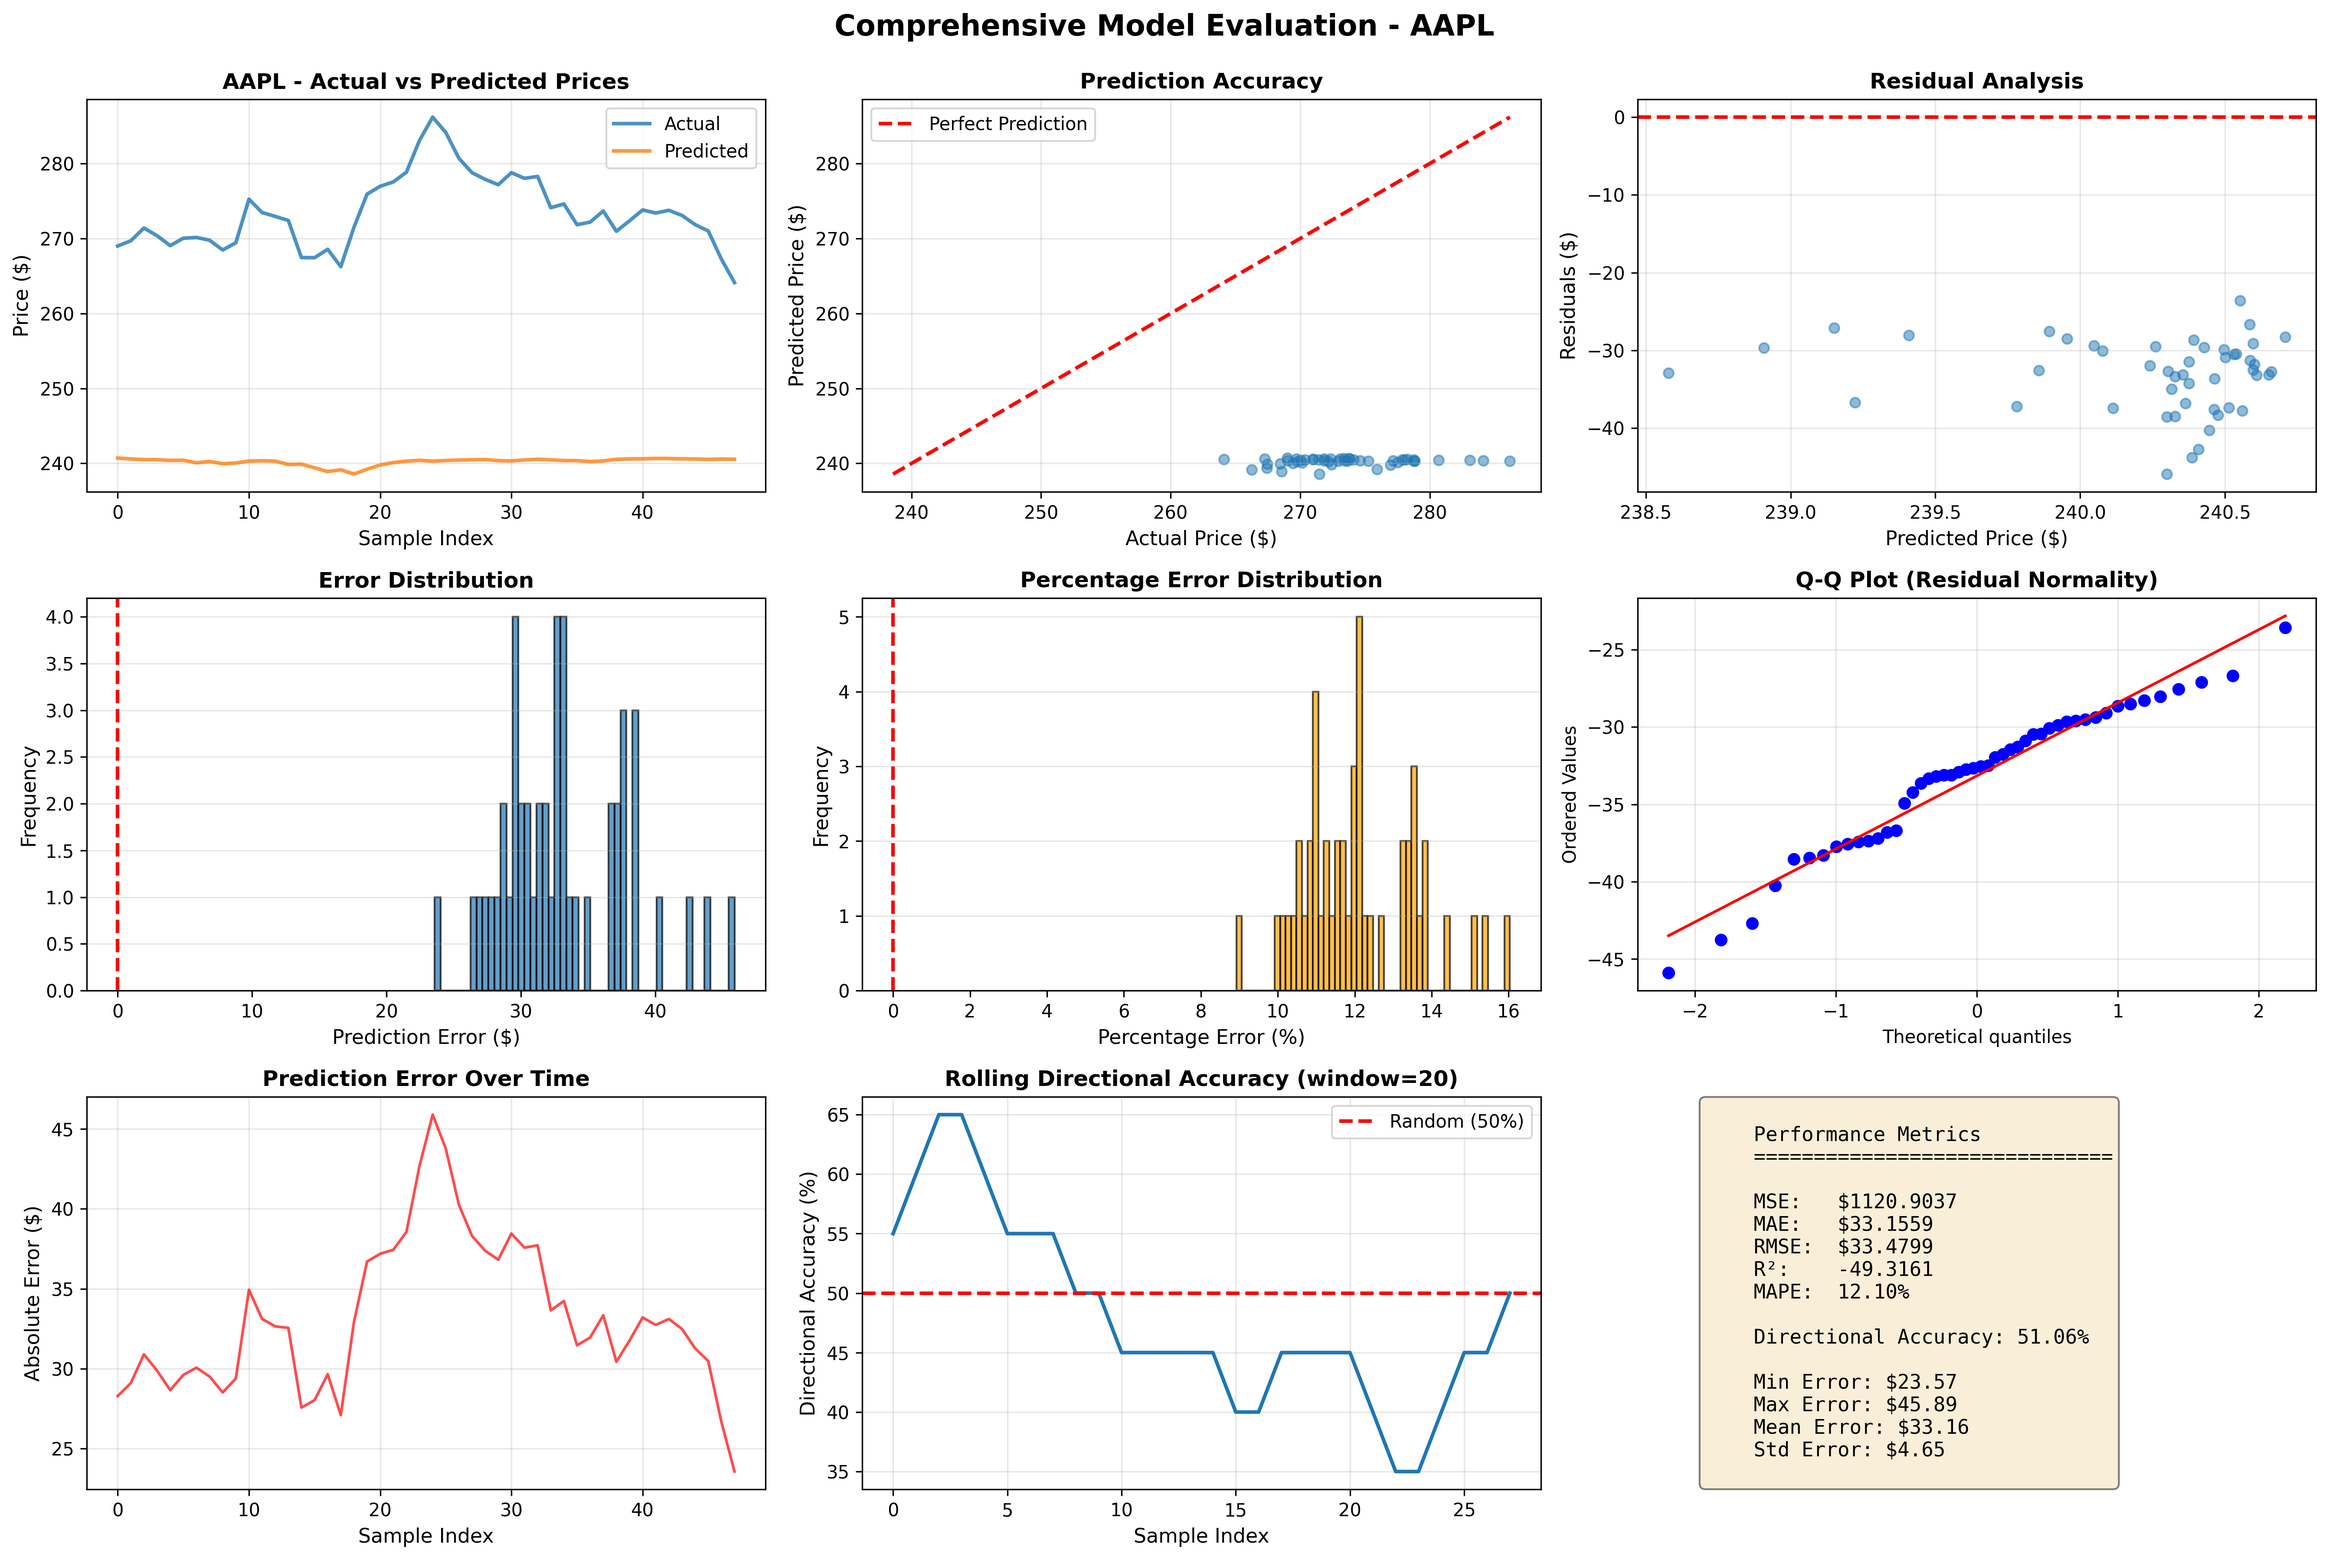
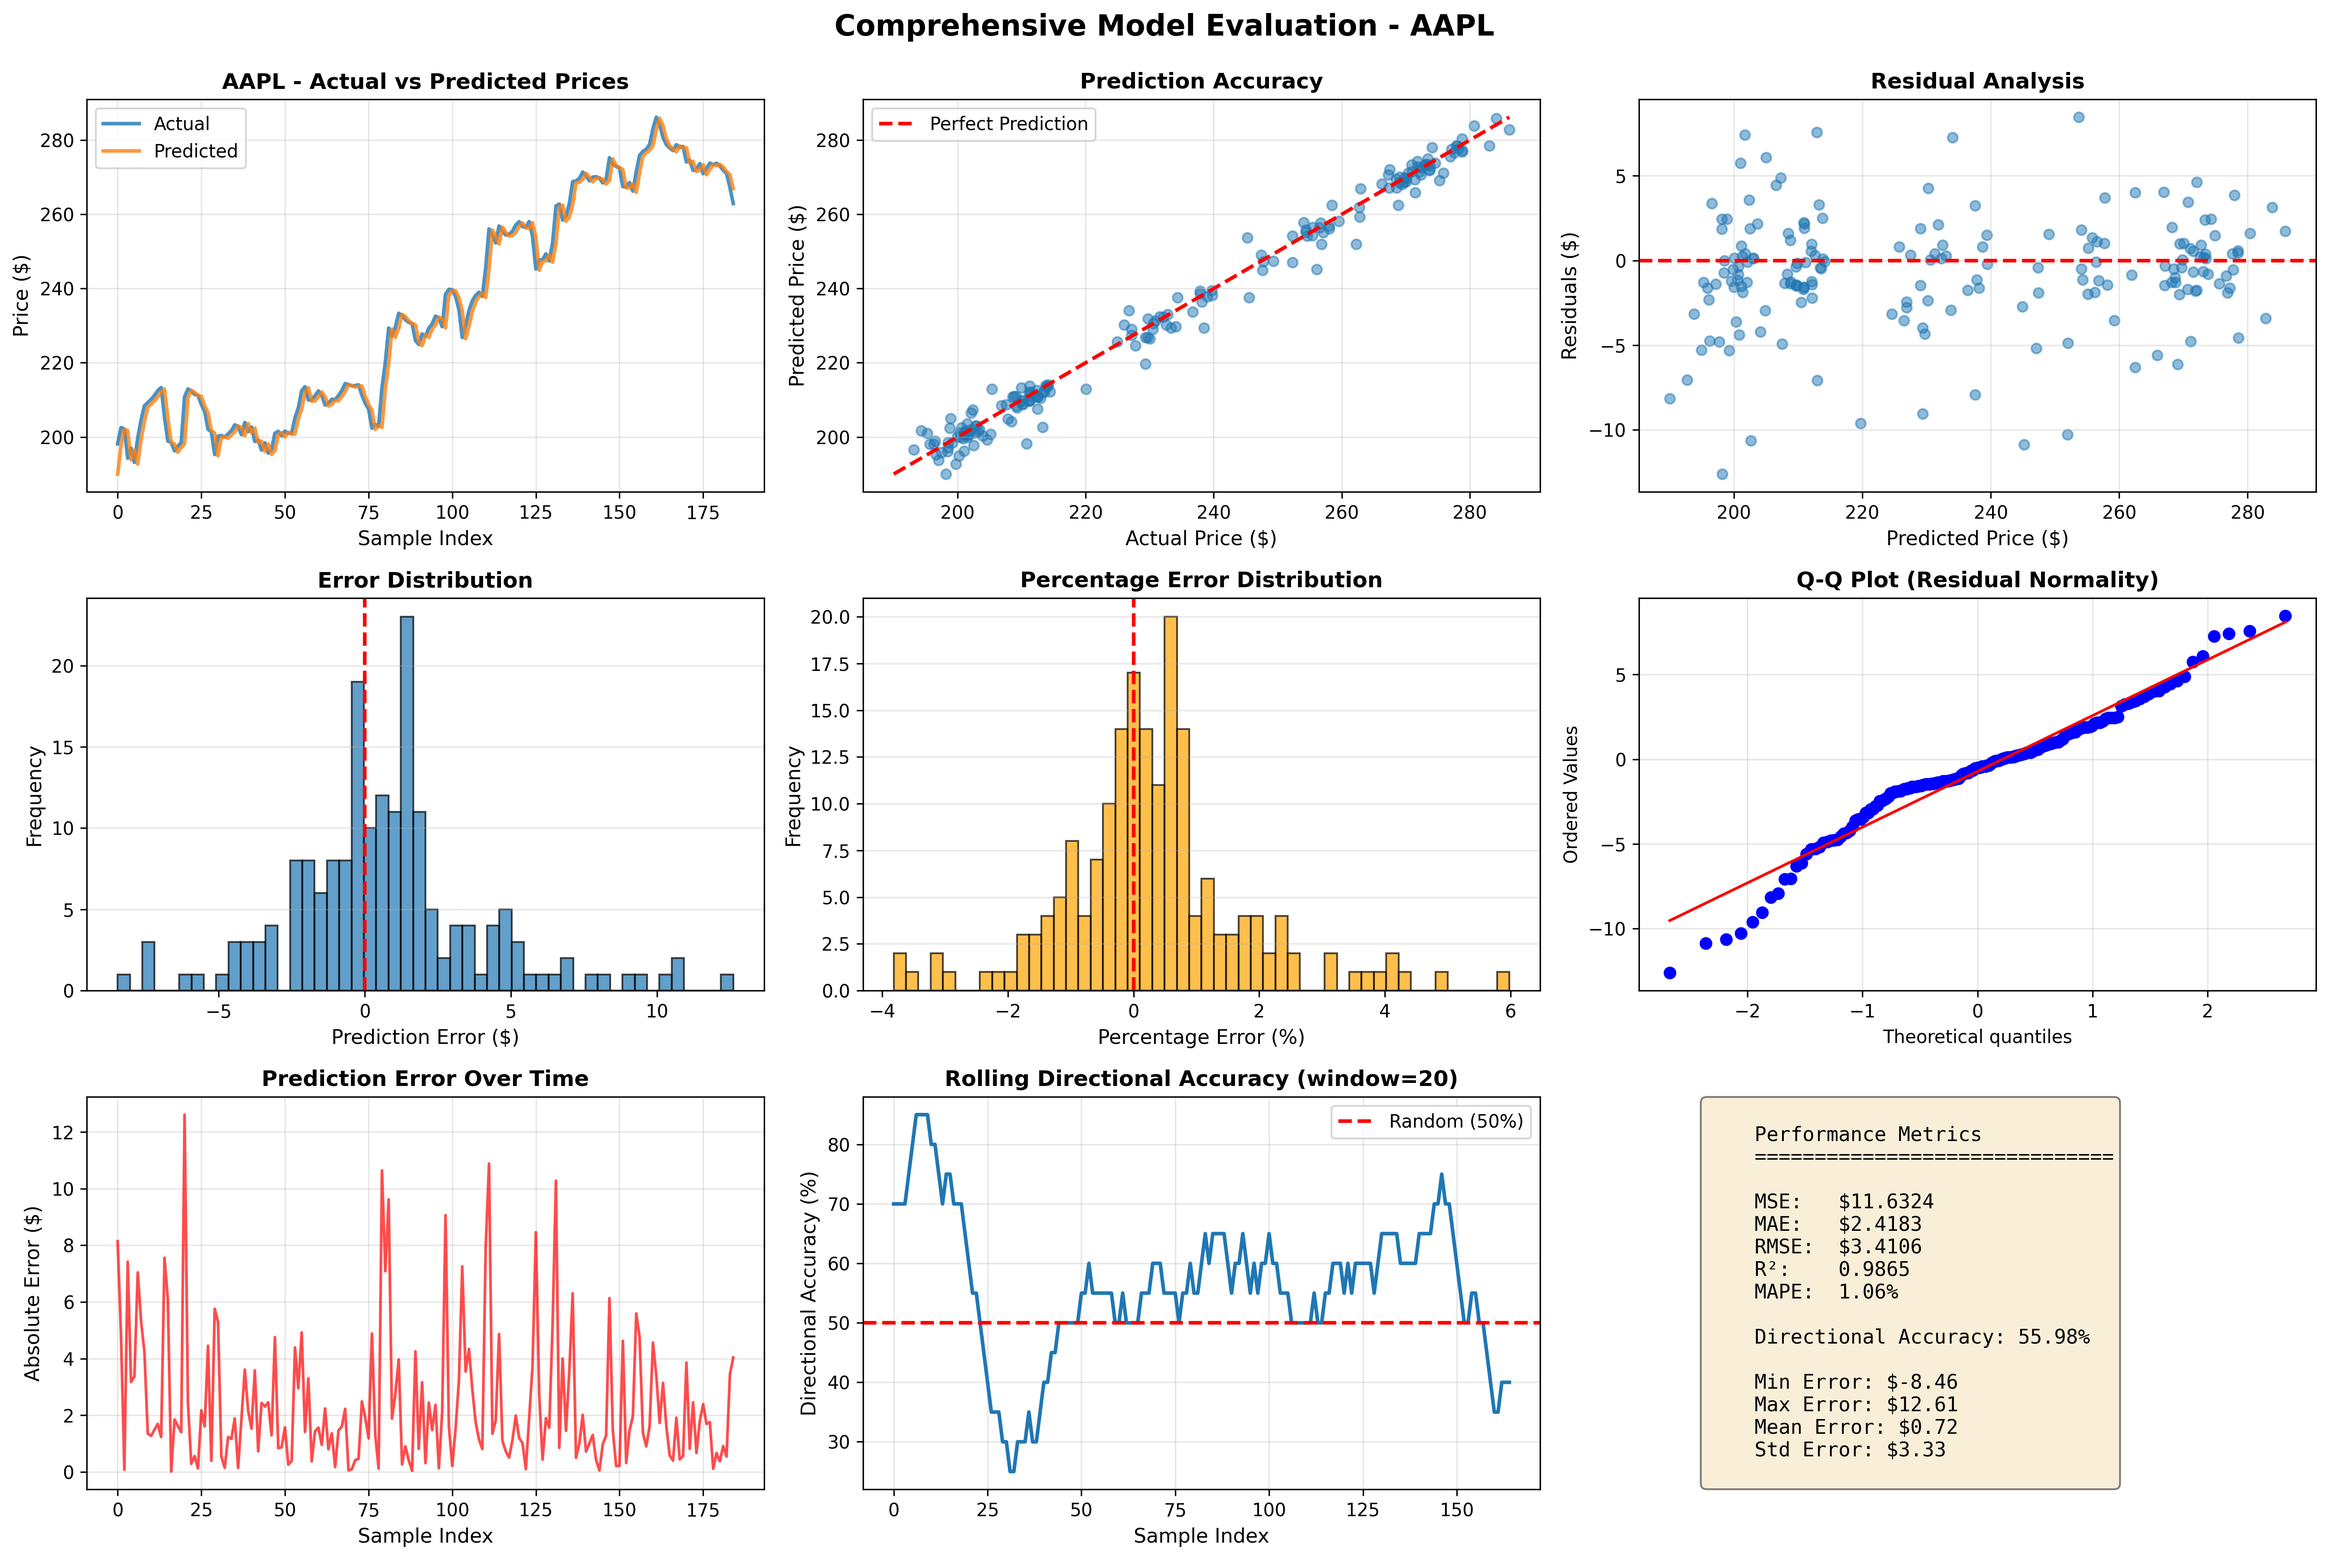
tried to beat the base line

diff --git a/scripts/evaluate_advanced_model.py b/scripts/evaluate_advanced_model.py
@@ -225,7 +225,7 @@ def evaluate_baseline_naive(y_true, current_close=None, **kwargs):
     }
 
 
-def plot_comprehensive_analysis(metrics, ticker, save_path=None):
+def plot_comprehensive_analysis(metrics, ticker, save_path=None, *, baseline_naive=None):
     """Create comprehensive visualization of model performance"""
     
     predictions = metrics['predictions']
@@ -321,23 +321,32 @@ def plot_comprehensive_analysis(metrics, ticker, save_path=None):
     # 9. Metrics summary
     ax9 = plt.subplot(3, 3, 9)
     ax9.axis('off')
-    metrics_text = f"""
-    Performance Metrics
-    {'='*30}
-    
-    MSE:   ${metrics['mse']:.4f}
-    MAE:   ${metrics['mae']:.4f}
-    RMSE:  ${metrics['rmse']:.4f}
-    R²:    {metrics['r2']:.4f}
-    MAPE:  {metrics['mape']:.2f}%
-    
-    Directional Accuracy: {metrics['directional_accuracy']:.2f}%
-    
-    Min Error: ${errors.min():.2f}
-    Max Error: ${errors.max():.2f}
-    Mean Error: ${errors.mean():.2f}
-    Std Error: ${errors.std():.2f}
-    """
+    base_lines = ""
+    if baseline_naive is not None:
+        base_lines = (
+            "\nBaseline (naive: next close = current close)\n"
+            f"RMSE:  ${baseline_naive['rmse']:.4f}\n"
+            f"MAE:   ${baseline_naive['mae']:.4f}\n"
+            f"MAPE:  {baseline_naive['mape']:.2f}%\n"
+            f"DirAcc:{baseline_naive['directional_accuracy']:.2f}%\n"
+        )
+
+    metrics_text = (
+        "Performance Metrics\n"
+        + "=" * 30
+        + "\n\nModel\n"
+        f"RMSE:  ${metrics['rmse']:.4f}\n"
+        f"MAE:   ${metrics['mae']:.4f}\n"
+        f"MAPE:  {metrics['mape']:.2f}%\n"
+        f"R²:    {metrics['r2']:.4f}\n"
+        f"DirAcc:{metrics['directional_accuracy']:.2f}%\n"
+        + base_lines
+        + "\nErrors (model, $)\n"
+        f"Min:   ${errors.min():.2f}\n"
+        f"Max:   ${errors.max():.2f}\n"
+        f"Mean:  ${errors.mean():.2f}\n"
+        f"Std:   ${errors.std():.2f}\n"
+    )
     ax9.text(0.1, 0.5, metrics_text, fontsize=11, family='monospace',
              verticalalignment='center', bbox=dict(boxstyle='round', facecolor='wheat', alpha=0.5))
     
@@ -460,16 +469,31 @@ def main():
     
     # Plot results
     print("Generating visualizations...")
-    plot_comprehensive_analysis(metrics, args.ticker, args.output)
+    plot_comprehensive_analysis(metrics, args.ticker, args.output, baseline_naive=baseline)
     
     # Save metrics to JSON
-    output_path = Path(args.output).parent / 'evaluation_metrics.json'
+    # Save per-ticker (avoids overwriting when evaluating multiple tickers)
+    output_path = default_dir / 'evaluation_metrics.json'
     metrics_to_save = {k: v for k, v in metrics.items() 
                        if k not in ['predictions', 'targets']}
-    metrics_to_save['baseline_naive'] = baseline
+    # Baseline includes numpy arrays (pred/actual) which are not JSON-serializable; keep only scalars.
+    metrics_to_save['baseline_naive'] = {
+        'mse': float(baseline.get('mse')),
+        'mae': float(baseline.get('mae')),
+        'rmse': float(baseline.get('rmse')),
+        'mape': float(baseline.get('mape')),
+        'directional_accuracy': float(baseline.get('directional_accuracy')),
+    }
     with open(output_path, 'w') as f:
         json.dump(metrics_to_save, f, indent=2)
     print(f"\nMetrics saved to {output_path}")
+
+    # Also write a copy next to the plot output for convenience
+    output_path_copy = Path(args.output).parent / 'evaluation_metrics.json'
+    if output_path_copy.resolve() != output_path.resolve():
+        with open(output_path_copy, 'w') as f:
+            json.dump(metrics_to_save, f, indent=2)
+        print(f"Metrics copy saved to {output_path_copy}")
 
 
 if __name__ == "__main__":

diff --git a/src/data_gathering.py b/src/data_gathering.py
@@ -146,6 +146,53 @@ def gather_data(ticker: str, days_back=60, return_meta: bool = False, target_mod
     df["sentiment_comp"] = [s[0] for s in sentiments]
     df["sentiment_global"] = [s[1] for s in sentiments]
 
+    # -------------------------------
+    # Leak-safe technical indicators
+    # -------------------------------
+    # All indicators are computed from values available up to the same day index.
+    close = df["Close"].copy()
+    if hasattr(close, "iloc") and isinstance(close.iloc[0], (pd.Series, pd.DataFrame)):
+        # yfinance sometimes returns multi-index columns even for a single ticker.
+        close = close.iloc[:, 0]
+
+    # Returns
+    df["ret_1"] = close.pct_change().fillna(0.0)
+    df["logret_1"] = np.log1p(df["ret_1"]).replace([np.inf, -np.inf], 0.0).fillna(0.0)
+
+    # Volatility (rolling std of daily returns)
+    df["vol_10"] = df["ret_1"].rolling(window=10, min_periods=2).std().fillna(0.0)
+
+    # RSI (14)
+    delta = close.diff().fillna(0.0)
+    gain = delta.clip(lower=0.0)
+    loss = (-delta).clip(lower=0.0)
+    avg_gain = gain.rolling(window=14, min_periods=2).mean()
+    avg_loss = loss.rolling(window=14, min_periods=2).mean()
+    rs = (avg_gain / (avg_loss.replace(0.0, np.nan))).replace([np.inf, -np.inf], np.nan)
+    df["rsi_14"] = (100.0 - (100.0 / (1.0 + rs))).fillna(50.0)
+
+    # Moving averages / EMA
+    df["sma_5"] = close.rolling(window=5, min_periods=2).mean().bfill().fillna(close)
+    df["sma_10"] = close.rolling(window=10, min_periods=2).mean().bfill().fillna(close)
+    df["ema_10"] = close.ewm(span=10, adjust=False).mean().fillna(close)
+
+    # MACD (12, 26) + signal (9)
+    ema_12 = close.ewm(span=12, adjust=False).mean()
+    ema_26 = close.ewm(span=26, adjust=False).mean()
+    macd = (ema_12 - ema_26).fillna(0.0)
+    macd_signal = macd.ewm(span=9, adjust=False).mean().fillna(0.0)
+    df["macd"] = macd
+    df["macd_signal"] = macd_signal
+    df["macd_hist"] = (macd - macd_signal).fillna(0.0)
+
+    # Bollinger Bands (20) - normalized position and band width
+    sma_20 = close.rolling(window=20, min_periods=2).mean()
+    std_20 = close.rolling(window=20, min_periods=2).std().replace(0.0, np.nan)
+    upper = sma_20 + 2.0 * std_20
+    lower = sma_20 - 2.0 * std_20
+    df["bb_width_20"] = ((upper - lower) / np.maximum(sma_20.abs(), 1e-8)).replace([np.inf, -np.inf], 0.0).fillna(0.0)
+    df["bb_pos_20"] = ((close - lower) / np.maximum((upper - lower), 1e-8)).replace([np.inf, -np.inf], 0.0).fillna(0.5)
+
     # Build dataset
     X, y = [], []
     meta = {
@@ -170,7 +217,27 @@ def gather_data(ticker: str, days_back=60, return_meta: bool = False, target_mod
         if pd.isna(vix_value):
             vix_value = 0.0
         market_vec = np.array([vix_value], dtype=np.float32).flatten()
-        X_i = np.concatenate([window, sentiment_vec, market_vec])
+
+        tech_vec = np.array(
+            df.iloc[i][
+                [
+                    "ret_1",
+                    "logret_1",
+                    "vol_10",
+                    "rsi_14",
+                    "sma_5",
+                    "sma_10",
+                    "ema_10",
+                    "macd",
+                    "macd_signal",
+                    "macd_hist",
+                    "bb_width_20",
+                    "bb_pos_20",
+                ]
+            ],
+            dtype=np.float32,
+        ).flatten()
+        X_i = np.concatenate([window, sentiment_vec, market_vec, tech_vec])
 
         # Target options:
         # - price: next-day close

diff --git a/src/train.py b/src/train.py
@@ -166,7 +166,8 @@ def train_model_advanced(
         print(f"  Trainable: {trainable_params:,}")
     
     # Loss function and optimizer
-    criterion = nn.MSELoss()
+    # Huber loss is typically more robust to price jumps/outliers than pure MSE.
+    criterion = nn.SmoothL1Loss(beta=1.0)
     optimizer = torch.optim.AdamW(
         model.parameters(), 
         lr=lr, 
@@ -302,14 +303,21 @@ def train_model_advanced(
     mse = np.mean((predictions_original - targets_original) ** 2)
     mae = np.mean(np.abs(predictions_original - targets_original))
     rmse = np.sqrt(mse)
-    mape = np.mean(np.abs((targets_original - predictions_original) / targets_original)) * 100
+
+    # MAPE is unstable/meaningless for delta targets because the true delta crosses 0.
+    mode = (target_mode or "price").strip().lower() if target_mode is not None else "price"
+    if mode == "delta":
+        mape = None
+    else:
+        denom = np.maximum(np.abs(targets_original), 1e-8)
+        mape = float(np.mean(np.abs((targets_original - predictions_original) / denom)) * 100)
     
     test_metrics = {
-        'test_loss': test_loss,
+        'test_loss': float(test_loss),
         'mse': float(mse),
         'mae': float(mae),
         'rmse': float(rmse),
-        'mape': float(mape)
+        'mape': mape,
     }
     
     if verbose:
@@ -320,7 +328,10 @@ def train_model_advanced(
         print(f"MSE:  {mse:.4f}")
         print(f"MAE:  {mae:.4f}")
         print(f"RMSE: {rmse:.4f}")
-        print(f"MAPE: {mape:.2f}%")
+        if mape is None:
+            print("MAPE: N/A (delta target)")
+        else:
+            print(f"MAPE: {mape:.2f}%")
     
     # Save training summary
     summary = {

diff --git a/scripts/train_advanced_model.py b/scripts/train_advanced_model.py
@@ -201,7 +201,10 @@ def main() -> int:
         if (TARGET_MODE or "").strip().lower() == "delta":
             print(f"  RMSE (delta): {test_metrics['rmse']:.4f}")
             print(f"  MAE  (delta): {test_metrics['mae']:.4f}")
-            print(f"  MAPE (delta): {test_metrics['mape']:.2f}%")
+            if test_metrics.get('mape') is None:
+                print("  MAPE (delta): N/A")
+            else:
+                print(f"  MAPE (delta): {test_metrics['mape']:.2f}%")
         else:
             print(f"  RMSE: ${test_metrics['rmse']:.2f}")
             print(f"  MAE:  ${test_metrics['mae']:.2f}")
